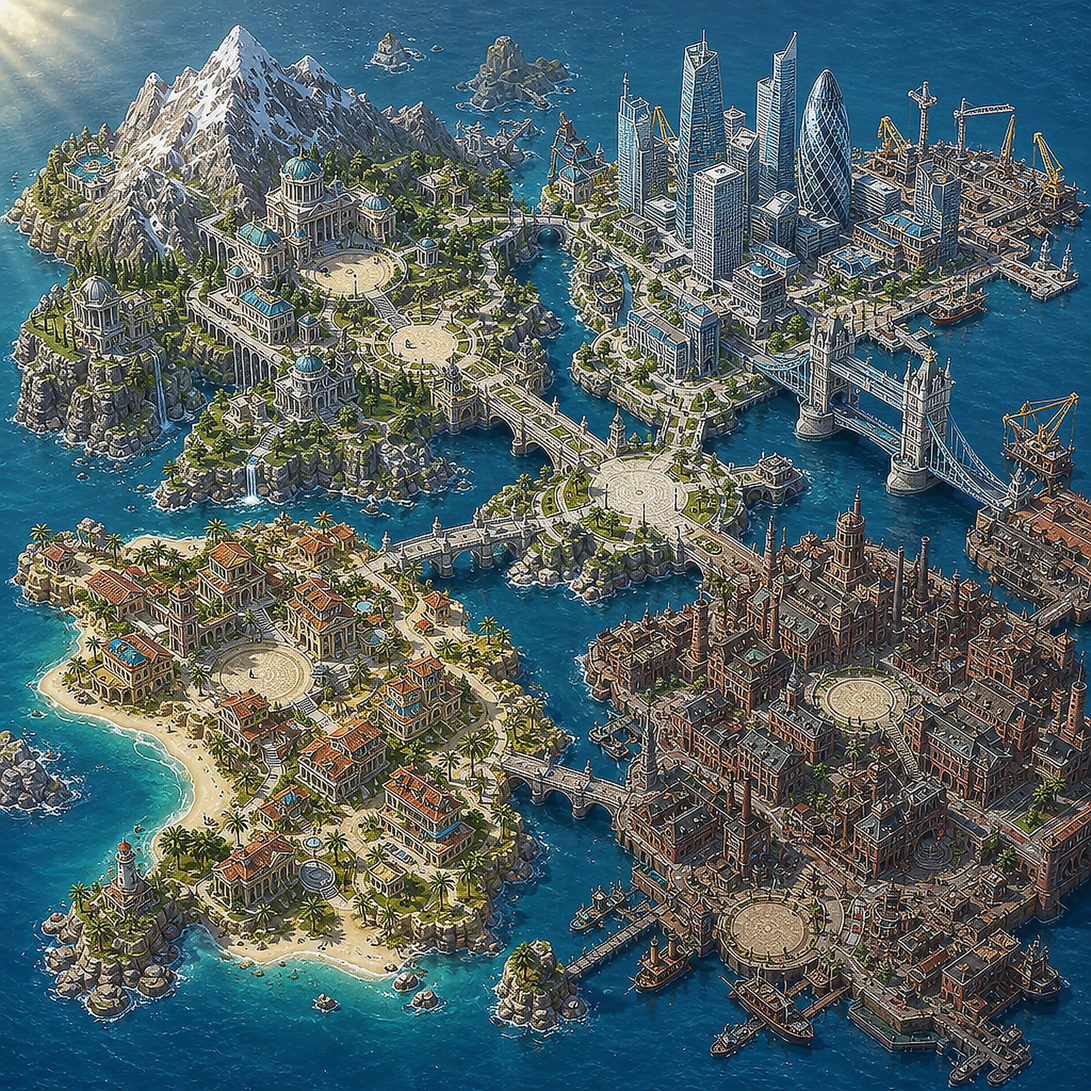
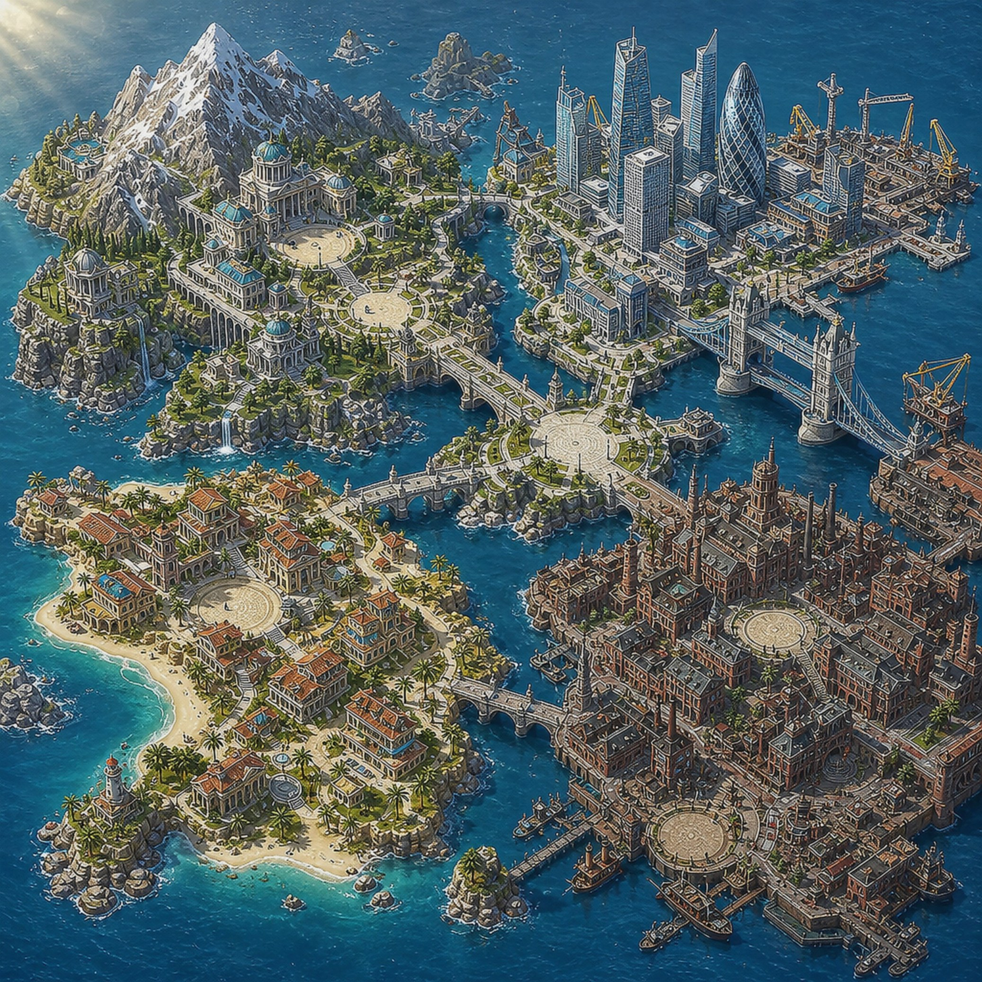
fix: softer map again; glowing tall trade swords
Reduce poster detail another ~10% to cut pixelation. Rebuild trade
sword as a sharp tall silhouette with cyan/gold glow on the map.

diff --git a/src/app/globals.css b/src/app/globals.css
@@ -748,19 +748,37 @@ a {
   place-items: center;
   text-decoration: none;
   color: inherit;
-  --glow-a: rgba(255, 236, 179, 0.95);
-  --glow-b: rgba(198, 161, 91, 0.9);
-  --glow-c: rgba(198, 161, 91, 0.55);
-  animation: pin-glow-pulse 2.7s ease-in-out infinite;
+  --glow-a: rgba(180, 230, 255, 1);
+  --glow-b: rgba(80, 190, 255, 0.95);
+  --glow-c: rgba(255, 200, 80, 0.65);
+  animation: pin-glow-pulse 2.4s ease-in-out infinite;
+}
+
+.trade-pin::before {
+  content: "";
+  position: absolute;
+  inset: -0.65rem -0.45rem;
+  border-radius: 999px;
+  background: radial-gradient(
+    ellipse at center,
+    rgba(100, 220, 255, 0.75) 0%,
+    rgba(80, 170, 255, 0.4) 42%,
+    rgba(255, 200, 80, 0.18) 62%,
+    transparent 76%
+  );
+  z-index: -1;
+  pointer-events: none;
+  animation: library-halo 1.9s ease-in-out infinite;
 }
 
 .trade-pin img {
   display: block;
-  width: 1.55rem;
-  height: 1.55rem;
+  width: 1.85rem;
+  height: 1.85rem;
   border-radius: 0;
   object-fit: contain;
   background: transparent;
+  animation: trade-sword-glow 2.1s ease-in-out infinite;
 }
 
 .trade-pin.done {
@@ -769,16 +787,42 @@ a {
   filter: grayscale(0.35) drop-shadow(0 2px 4px rgba(0, 0, 0, 0.35));
 }
 
+.trade-pin.done::before {
+  display: none;
+}
+
+.trade-pin.done img {
+  animation: none;
+  filter: none;
+}
+
 .trade-pin:hover {
   transform: translate(-50%, -50%) scale(1.1);
 }
 
+@keyframes trade-sword-glow {
+  0%,
+  100% {
+    filter:
+      drop-shadow(0 0 3px rgba(200, 245, 255, 1))
+      drop-shadow(0 0 8px rgba(80, 200, 255, 0.9))
+      drop-shadow(0 0 14px rgba(255, 200, 90, 0.55));
+  }
+  50% {
+    filter:
+      drop-shadow(0 0 6px rgba(220, 250, 255, 1))
+      drop-shadow(0 0 14px rgba(100, 220, 255, 1))
+      drop-shadow(0 0 24px rgba(255, 215, 110, 0.75));
+  }
+}
+
 .trade-hero-icon {
-  --glow-a: rgba(255, 236, 179, 0.95);
-  --glow-b: rgba(198, 161, 91, 0.85);
-  --glow-c: rgba(198, 161, 91, 0.5);
-  border-radius: 999px;
-  animation: pin-glow-pulse 2.6s ease-in-out infinite;
+  border-radius: 0;
+  filter:
+    drop-shadow(0 0 8px rgba(120, 220, 255, 0.95))
+    drop-shadow(0 0 18px rgba(80, 180, 255, 0.7))
+    drop-shadow(0 0 28px rgba(255, 200, 90, 0.45));
+  animation: trade-sword-glow 2.4s ease-in-out infinite;
 }
 
 .library-hero-icon {
